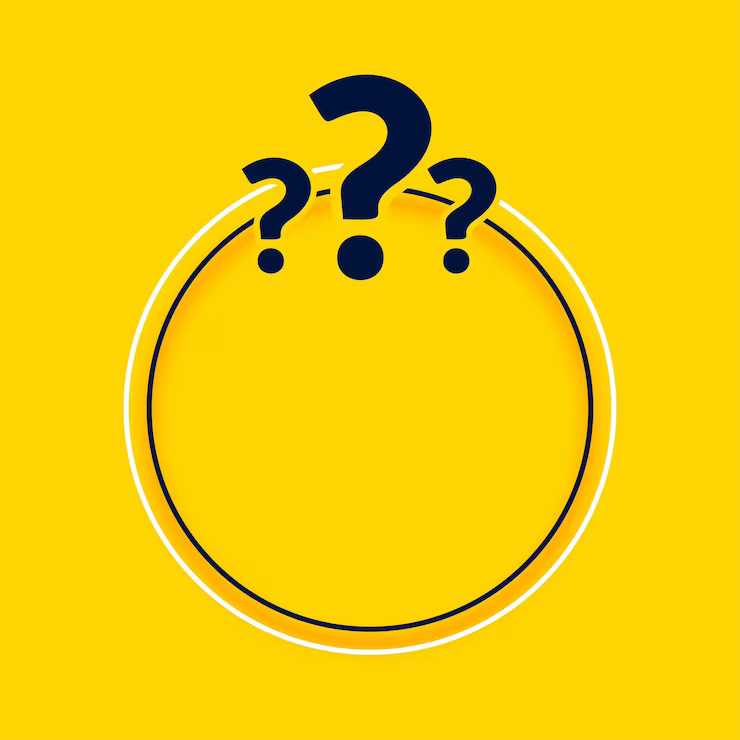
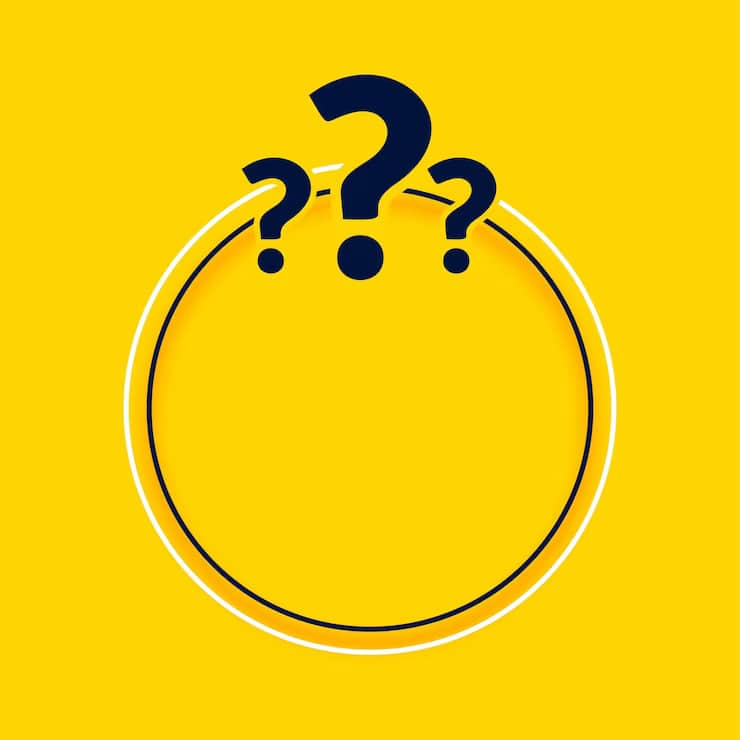
compress images

diff --git a/index.html b/index.html
@@ -69,18 +69,14 @@
 
         <div class="feature-card">
           <p class="room-category">Get Discounts</p>
-          <img
-            class="image-feature-style"
-            src="./images/discount.webp"
-            alt=""
-          />
+          <img class="image-feature-style" src="./images/discount.jpg" alt="" />
         </div>
 
         <div class="feature-card">
           <p class="room-category">Standard Budget</p>
           <img
             class="image-feature-style"
-            src="./images/standard-budget.webp"
+            src="./images/standard-budget.jpg"
             alt=""
           />
         </div>

diff --git a/landingPage.css b/landingPage.css
@@ -262,7 +262,7 @@ h2 i{
 .Hotel-heroSection::before{
   content: "";
   position: absolute;
-  background-image: url("./images/hotel-bg.png");
+  background-image: url("./images/hotel-bg.jpg");
   background-position: center;
   background-repeat: no-repeat;
   background-size: cover;
